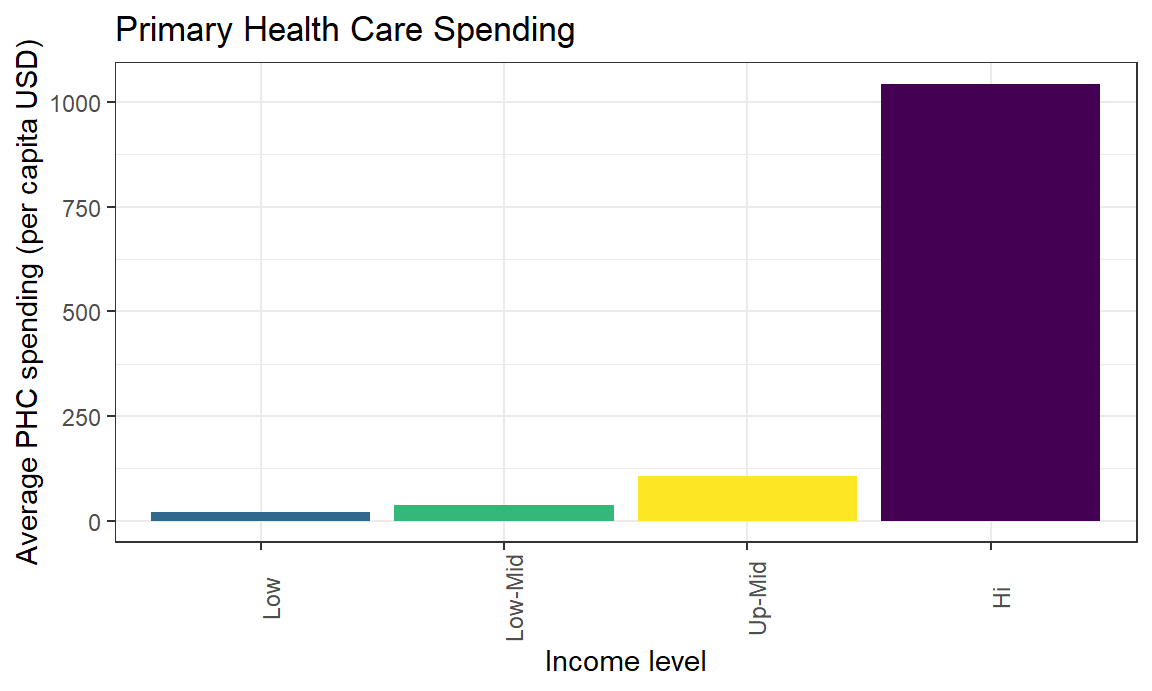
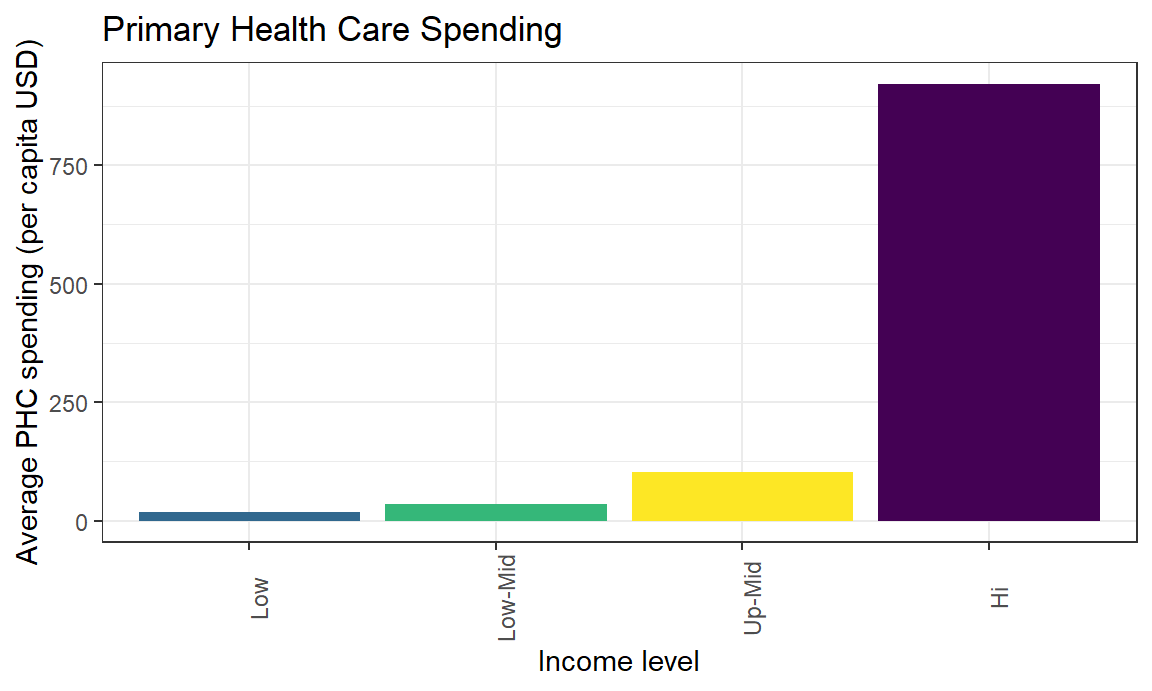
updating code for 2019 data, side-by-side bar plots showing curative vs. preventive spending

diff --git a/ghed_p8105_project.html b/ghed_p8105_project.html
@@ -317,10 +317,10 @@ scale_fill_discrete = scale_fill_viridis_d</code></pre>
 <div id="safiyas-section" class="section level3">
 <h3>Safiya’s section</h3>
 <p><strong>Indicators</strong> Primary health care - phc_usd_pc<br />
-Infectious disease - dis1_usd2018<br />
-Noncommunicable disease - dis4_usd2018<br />
-Preventive care - hc6_usd2018<br />
-Curative care - hc1_usd2018<br />
+Infectious disease - dis1_usd2019<br />
+Noncommunicable disease - dis4_usd2019<br />
+Preventive care - hc6_usd2019<br />
+Curative care - hc1_usd2019<br />
 GDP - gdp_pc_usd<br />
 CHE - che_pc_usd</p>
 <p><strong>Primary Health Care Spending</strong></p>
@@ -328,7 +328,7 @@ CHE - che_pc_usd</p>
 <pre class="r"><code>PHC_df &lt;-
   ghed_df %&gt;% 
     janitor::clean_names() %&gt;% 
-    filter(year == 2018) %&gt;% 
+    filter(year == 2019) %&gt;% 
     drop_na(phc_usd_pc) %&gt;% 
     group_by(income_group) %&gt;% 
     summarize(
@@ -350,7 +350,7 @@ PHC_df %&gt;%
 <pre class="r"><code>PHC_df &lt;-
   ghed_df %&gt;% 
     janitor::clean_names() %&gt;% 
-    filter(year == 2018) %&gt;% 
+    filter(year == 2019) %&gt;% 
     drop_na(phc_usd_pc, gdp_pc_usd) %&gt;% 
     group_by(income_group) %&gt;% 
     summarize(
@@ -372,7 +372,7 @@ PHC_df %&gt;%
 <pre class="r"><code>PHC_df &lt;-
   ghed_df %&gt;% 
     janitor::clean_names() %&gt;% 
-    filter(year == 2018) %&gt;% 
+    filter(year == 2019) %&gt;% 
     drop_na(phc_usd_pc, gdp_pc_usd) %&gt;% 
     group_by(income_group) %&gt;% 
     summarize(
@@ -391,6 +391,123 @@ PHC_df %&gt;%
   theme(legend.position = &quot;none&quot;)</code></pre>
 <p><img src="ghed_p8105_project_files/figure-html/unnamed-chunk-5-1.png" width="90%" /></p>
 <p><strong>Preventive vs. Curative Spending</strong></p>
+<p>Primary health care spending by income level (USD per capita)</p>
+<pre class="r"><code>prev_df &lt;-
+  ghed_df %&gt;% 
+    janitor::clean_names() %&gt;% 
+    filter(year == 2019) %&gt;% 
+    drop_na(hc6_usd) %&gt;% 
+    group_by(income_group) %&gt;% 
+    summarize(
+      n_countries = n(),
+      `Preventive` = mean(hc6_usd2019))
+
+cur_df &lt;-
+  ghed_df %&gt;% 
+    janitor::clean_names() %&gt;% 
+    filter(year == 2019) %&gt;% 
+    drop_na(hc1_usd) %&gt;% 
+    group_by(income_group) %&gt;% 
+    summarize(
+      n_countries = n(),
+      `Curative` = mean(hc1_usd2019))
+
+prev_cur_df &lt;-
+  left_join(prev_df, cur_df) %&gt;% 
+  pivot_longer(
+    `Preventive`:`Curative`,
+    names_to = &quot;Type of Spending&quot;,
+    values_to = &quot;avg_spend&quot;
+  )</code></pre>
+<pre><code>## Joining, by = c(&quot;income_group&quot;, &quot;n_countries&quot;)</code></pre>
+<pre class="r"><code>prev_cur_df %&gt;% 
+  ggplot(aes(x = fct_relevel(as.factor(income_group), c(&quot;Low&quot;, &quot;Low-Mid&quot;, &quot;Up-Mid&quot;, &quot;Hi&quot;)), y = avg_spend, fill = `Type of Spending`)) +
+  geom_bar(stat = &quot;identity&quot;, position = &quot;dodge&quot;) +
+  labs(
+    title = &quot;Preventive vs. Curative Spending&quot;,
+    x = &quot;Income level&quot;,
+    y = &quot;Average spending \n (million USD)&quot;
+  ) + 
+  theme(axis.text.x = element_text(angle = 90))</code></pre>
+<p><img src="ghed_p8105_project_files/figure-html/unnamed-chunk-6-1.png" width="90%" /></p>
+<p>Primary health care spending by income level (as as proportion of GDP)</p>
+<pre class="r"><code>prev_df &lt;-
+  ghed_df %&gt;% 
+    janitor::clean_names() %&gt;% 
+    filter(year == 2019) %&gt;% 
+    drop_na(hc6_usd, gdp_pc_usd) %&gt;% 
+    group_by(income_group) %&gt;% 
+    summarize(
+      n_countries = n(),
+      `Preventive` = mean(hc6_usd2019 / gdp_usd2019))
+
+cur_df &lt;-
+  ghed_df %&gt;% 
+    janitor::clean_names() %&gt;% 
+    filter(year == 2019) %&gt;% 
+    drop_na(hc1_usd, gdp_pc_usd) %&gt;% 
+    group_by(income_group) %&gt;% 
+    summarize(
+      n_countries = n(),
+      `Curative` = mean(hc1_usd2019 / gdp_usd2019))
+
+prev_cur_df &lt;-
+  left_join(prev_df, cur_df) %&gt;% 
+  pivot_longer(
+    `Preventive`:`Curative`,
+    names_to = &quot;Type of Spending&quot;,
+    values_to = &quot;avg_spend&quot;
+  )</code></pre>
+<pre><code>## Joining, by = c(&quot;income_group&quot;, &quot;n_countries&quot;)</code></pre>
+<pre class="r"><code>prev_cur_df %&gt;%
+  ggplot(aes(x = fct_relevel(as.factor(income_group), c(&quot;Low&quot;, &quot;Low-Mid&quot;, &quot;Up-Mid&quot;, &quot;Hi&quot;)), y = avg_spend, fill = `Type of Spending`)) +
+  geom_bar(stat = &quot;identity&quot;, position = &quot;dodge&quot;) +
+  labs(
+    title = &quot;Preventive vs. Curative Spending&quot;,
+    x = &quot;Income level&quot;,
+    y = &quot;Average spending (as proportion of GDP)&quot;
+  ) + 
+  theme(axis.text.x = element_text(angle = 90))</code></pre>
+<p><img src="ghed_p8105_project_files/figure-html/unnamed-chunk-7-1.png" width="90%" /></p>
+<p>Primary health care spending by income level (as as proportion of health expenditure)</p>
+<pre class="r"><code>prev_df &lt;-
+  ghed_df %&gt;% 
+    janitor::clean_names() %&gt;% 
+    filter(year == 2019) %&gt;% 
+    drop_na(hc6_usd, gdp_pc_usd) %&gt;% 
+    group_by(income_group) %&gt;% 
+    summarize(
+      n_countries = n(),
+      `Preventive` = mean(hc6_usd2019 / che_usd2019))
+
+cur_df &lt;-
+  ghed_df %&gt;% 
+    janitor::clean_names() %&gt;% 
+    filter(year == 2019) %&gt;% 
+    drop_na(hc1_usd, gdp_pc_usd) %&gt;% 
+    group_by(income_group) %&gt;% 
+    summarize(
+      n_countries = n(),
+      `Curative` = mean(hc1_usd2019 / che_usd2019))
+
+prev_cur_df &lt;-
+  left_join(prev_df, cur_df) %&gt;% 
+  pivot_longer(
+    `Preventive`:`Curative`,
+    names_to = &quot;Type of Spending&quot;,
+    values_to = &quot;avg_spend&quot;
+  )</code></pre>
+<pre><code>## Joining, by = c(&quot;income_group&quot;, &quot;n_countries&quot;)</code></pre>
+<pre class="r"><code>prev_cur_df %&gt;%
+  ggplot(aes(x = fct_relevel(as.factor(income_group), c(&quot;Low&quot;, &quot;Low-Mid&quot;, &quot;Up-Mid&quot;, &quot;Hi&quot;)), y = avg_spend, fill = `Type of Spending`)) +
+  geom_bar(stat = &quot;identity&quot;, position = &quot;dodge&quot;) +
+  labs(
+    title = &quot;Preventive vs. Curative Spending&quot;,
+    x = &quot;Income level&quot;,
+    y = &quot;Average spending (as proportion \n of total health expenditure)&quot;
+  ) + 
+  theme(axis.text.x = element_text(angle = 90))</code></pre>
+<p><img src="ghed_p8105_project_files/figure-html/unnamed-chunk-8-1.png" width="90%" /></p>
 </div>
 <div id="other-sections" class="section level3">
 <h3>Other sections</h3>
